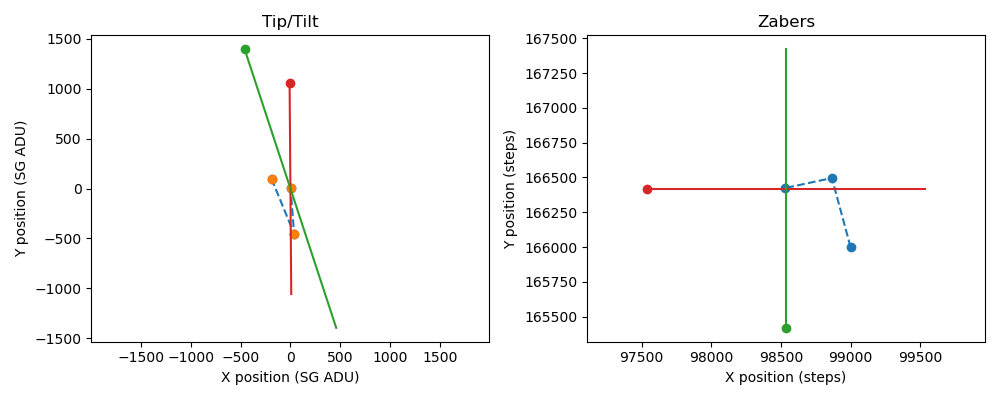
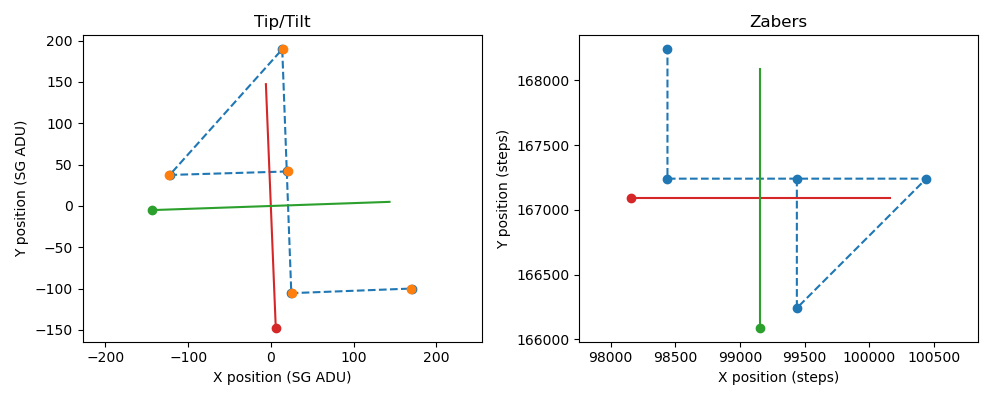
to be able to pull

diff --git a/plcontrol/plscripts/deprecated/process_maps.py b/plcontrol/plscripts/deprecated/process_maps.py
@@ -12,6 +12,8 @@ plt.ion()
 
 from datetime import datetime, timezone
 
+TARGET_DIR = "/mnt/datazpool/PL/20250514/firstpl/"
+
 def gaussian_2d(xy, amplitude, xo, yo, sigma, offset):
     """
     Define a 2d gaussian
@@ -74,7 +76,7 @@ def get_all_modid_four():
     tnow = datetime.now(timezone.utc)
     current_path = format(tnow.strftime("%Y%m%d"))
     #current_path = "20250510"
-    source_path = "/mnt/datazpool/PL/" + current_path + "/firstpl/"
+    source_path = TARGET_DIR
 
     #Gets all the fits files
     filelist = [source_path + f for f in os.listdir(source_path)
@@ -83,7 +85,8 @@ def get_all_modid_four():
     modid_four_files = []
     for file in filelist:
         this_header = fits.getheader(file, ext=0)
-        if this_header["X_FIRMID"]==4 and this_header["X_FIRTRG"]=="EXT":
+        if this_header["X_FIRMID"]==5 and this_header["X_FIRTRG"]=="EXT":
+            print(file)
             modid_four_files.append(file)
     
     return modid_four_files
@@ -109,6 +112,24 @@ def get_pos_content(files_modid_four):
     
     return xpos_l, ypos_l, xzab_l, yzab_l, amp_l
 
+def get_pos_in_csv():
+    files_modid_four = get_all_modid_four()
+
+    xpos_l, ypos_l, xzab_l, yzab_l, amp_l = get_pos_content(files_modid_four)
+
+    # Combine the lists row-wise using zip
+    rows = zip(xpos_l, ypos_l, xzab_l, yzab_l, amp_l)
+    headers = ["xpos", "ypos", "xzab", "yzab", "amp"]
+    # Write to CSV
+    save_here = './output.csv'
+    with open(save_here, 'w', newline='') as file:
+        writer = csv.writer(file)
+        writer.writerow(headers)  # write the header
+        writer.writerows(rows)    # write the data rows
+    print("Done")
+    return save_here
+
+#get_pos_in_csv()
 
 data = pd.read_csv("./output.csv")
 data = data[data["amp"] > 150]
@@ -206,23 +227,6 @@ for i in plt.get_fignums():
     fig.savefig(f"figure_{i}.png")
 
 
-
-def get_pos_in_csv():
-    files_modid_four = get_all_modid_four()
-
-    xpos_l, ypos_l, xzab_l, yzab_l, amp_l = get_pos_content(files_modid_four)
-
-    # Combine the lists row-wise using zip
-    rows = zip(xpos_l, ypos_l, xzab_l, yzab_l, amp_l)
-    headers = ["xpos", "ypos", "xzab", "yzab", "amp"]
-    # Write to CSV
-    save_here = './output.csv'
-    with open(save_here, 'w', newline='') as file:
-        writer = csv.writer(file)
-        writer.writerow(headers)  # write the header
-        writer.writerows(rows)    # write the data rows
-    print("Done")
-    return save_here
 
 """
 if __name__ == "__main__":

diff --git a/plrtd/opti_live.py b/plrtd/opti_live.py
@@ -27,6 +27,8 @@ class LiveOptiFlux(StoppableThread):
         self.vmin = vmin
         self.vmax = vmax 
         self.logger = FPS('streamFITSlog-firstpl')
+        self.data_path = None
+        self.filename = None
 
     def get_fitslogger_logdir(self):
         """
@@ -69,12 +71,18 @@ class LiveOptiFlux(StoppableThread):
             # finding the most recent dataset:
             most_recent = self.find_most_recent_fits_file(data_path)
             filename = most_recent
+        
+        
+        
 
         # reading the modulation function
+
         hdu = fits.open(filename)
         objX, objY = hdu[0].header["X_FIROBX"], hdu[0].header["X_FIROBY"] 
+
         xmod = hdu[1].data['xmod']
         ymod = hdu[1].data['ymod']
+
 
         # reading the flux
         fluxes = np.mean(hdu[0].data, axis=(1,2))
@@ -104,7 +112,7 @@ class LiveOptiFlux(StoppableThread):
         fluxes = flux_padded[-1]
 
         # Interpolate the fluxes onto the grid
-        flux_map = griddata((xmod, ymod), fluxes, (grid_x, grid_y), method='nearest')
+        flux_map = griddata((xmod, -ymod), fluxes, (grid_y, grid_x), method='nearest')
 
         """
         # Prepare data for fitting
@@ -148,13 +156,18 @@ class LiveOptiFlux(StoppableThread):
             plt.contour(grid_x, grid_y, fitted_gaussian, levels=10, colors='red', linewidths=0.8)
 
         """
-        return flux_map.T
+        return flux_map
 
     
     def setting_milk(self):
         #data = self.plot_detector()
 
-        image = self.opti_flux()
+        try :
+            image= self.opti_flux()
+        except:
+            print("Failed to load fits")
+            return None
+
         map_void          = np.zeros((image.shape[0], image.shape[1]), dtype=np.float32)
         shm_var         = shm('first_opti', map_void, location=-1, shared=1)
 
@@ -171,7 +184,7 @@ class LiveOptiFlux(StoppableThread):
     def run(self):
         while not(self.stopped()):
             self.setting_milk()
-            time.sleep(0.01)  # Adjust the delay as needed #0.1
+            time.sleep(1)  # Adjust the delay as needed #0.1
         print("Exiting...")        
         return None
 

diff --git a/plcontrol/plscripts/geometry.py b/plcontrol/plscripts/geometry.py
@@ -1,16 +1,16 @@
 #coding: utf8
 import numpy as np
 
-_zab_to_tt_origin = np.array([-17070.65, -7532.78]) 
+_zab_to_tt_origin = np.array([-23397.642555913924, -15442.522318264728]) 
 
-_zab_to_tt_mat = np.array([[-0.00693861903826579, 0.1069994196338608],
-                           [0.059796088370664094, 0.009944617042710019]])
+_zab_to_tt_mat = np.array([[-0.005972608379818009, 0.14357585101031123],
+                           [0.14734139219990922, 0.004982134168408588]])
 
 _vam1_to_tt_mat = np.array([[1, 0.0],
                             [-0.0, 1.0]])
 
 _tt_to_zab_mat = np.linalg.inv(_zab_to_tt_mat)
-_tt_to_vam1_mat = np.linalg.inv(_vam2_to_tt_mat)
+_tt_to_vam1_mat = np.linalg.inv(_vam1_to_tt_mat)
 
 _zab_to_vam1_mat = np.dot(_tt_to_vam1_mat, _zab_to_tt_mat)
 _vam1_to_zab_mat = np.dot(_tt_to_zab_mat, _vam1_to_tt_mat)
